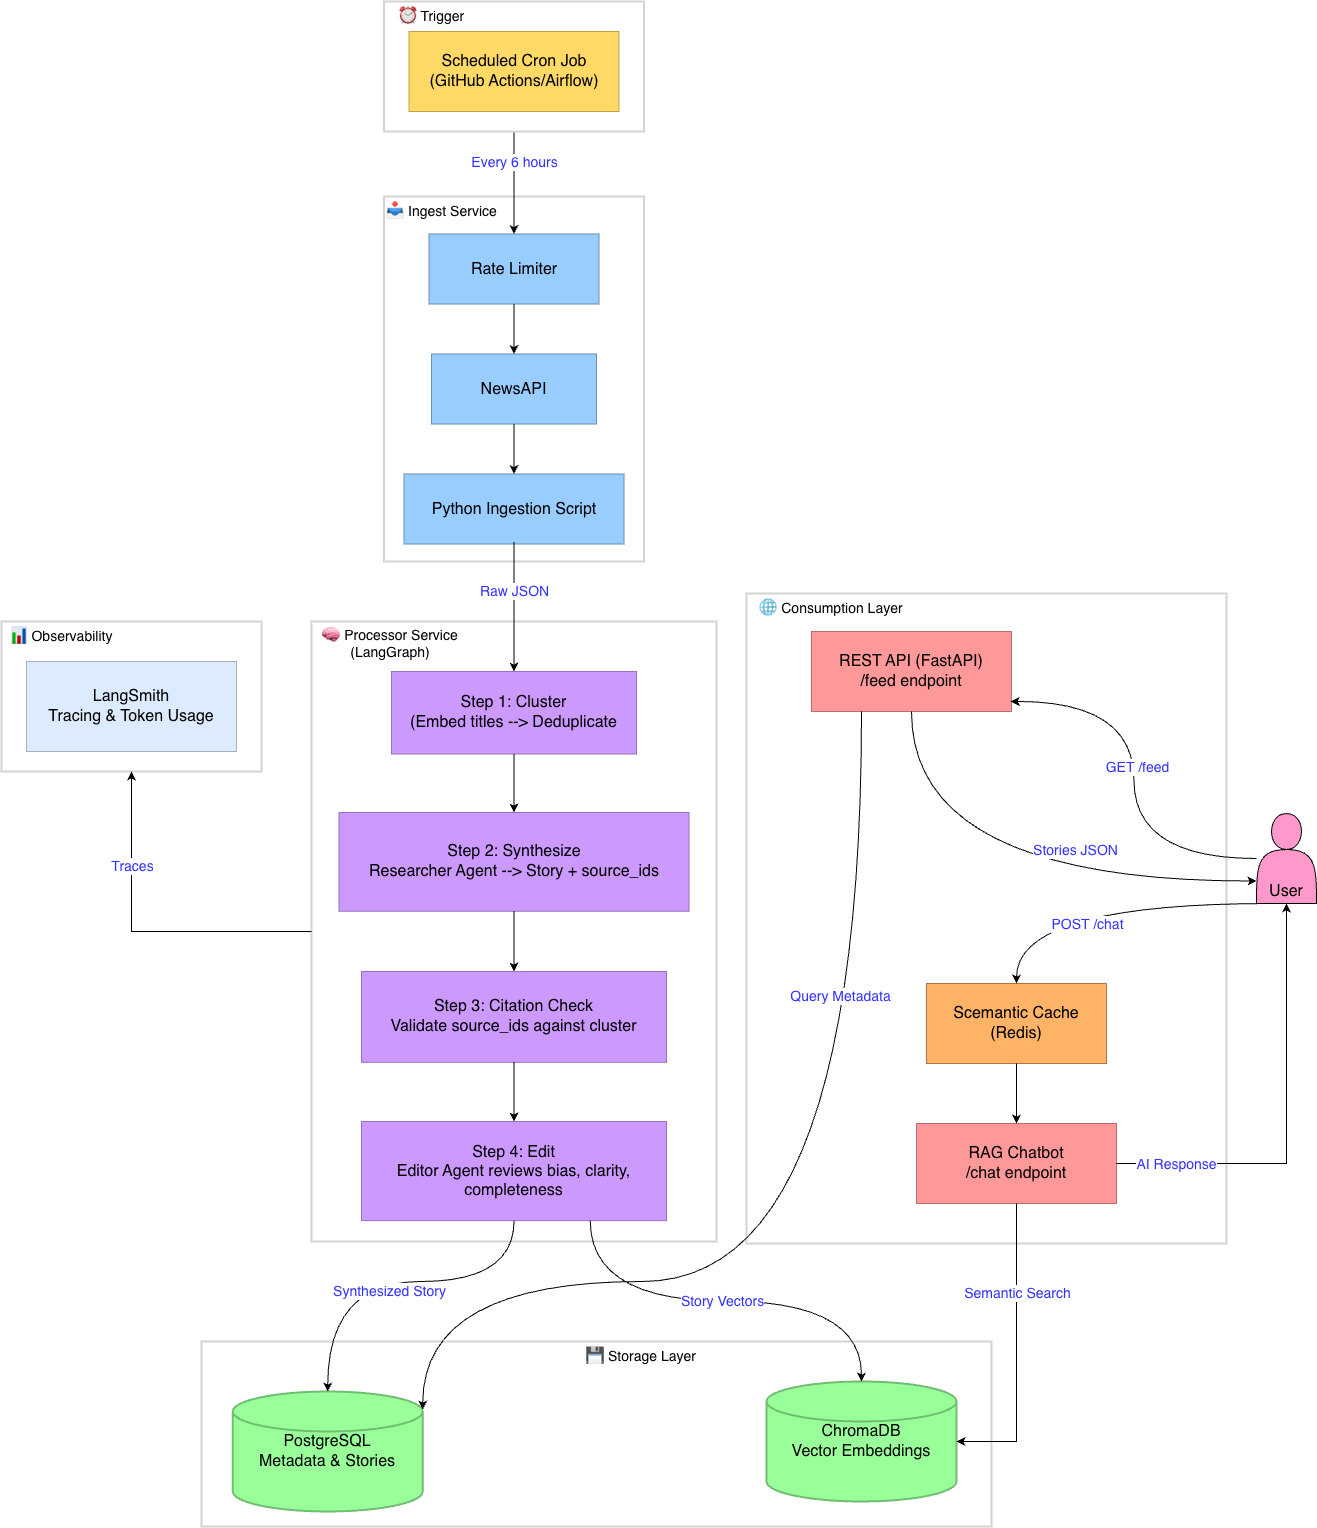
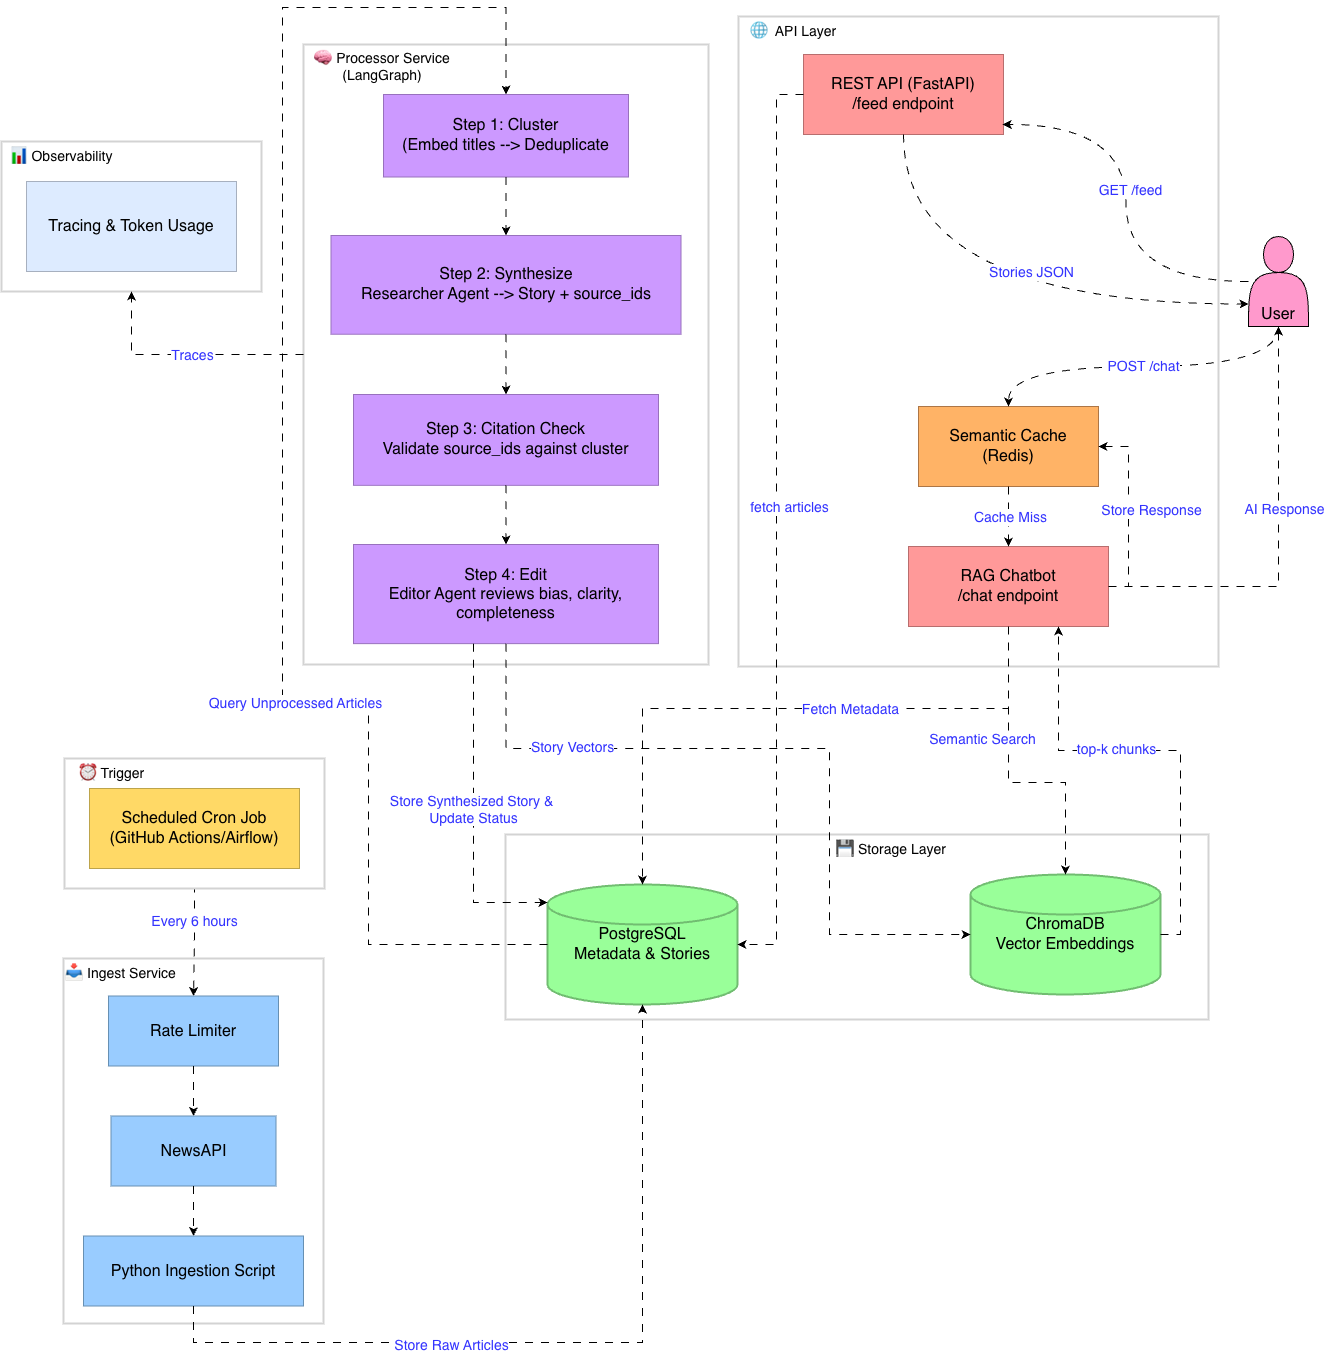
docs: Refactor system architecture documentation with detailed component descriptions and updated visual assets.

diff --git a/DESIGN.md b/DESIGN.md
@@ -33,20 +33,39 @@
 - **Observability**: Every LLM token usage and cost must be tracked.
 
 ## System Architecture
-1. **Trigger**: Scheduled Cron Job (via GitHub Actions/Airflow).
-2. **Rate Limiter**: Token-bucket limiter with exponential backoff enforces crawl budget per run.
-3. **Ingest Service**: Python script hits NewsAPI → pushes raw JSON to intermediate storage.
-4. **Processor Service** (LangGraph):
-    - Step 1 (Cluster): Embed titles to find duplicates.
-    - Step 2 (Synthesize): Researcher Agent summarizes the cluster into one "Story," tagging every fact with its `source_id`.
-    - Step 3 (Citation Check): Validates that each `source_id` maps to an article in the cluster. Rejects hallucinated citations.
-    - Step 4 (Edit): Editor Agent reviews for bias, clarity, and missing sources.
-    - Step 5 (Evaluator Loop): Iterates between Researcher and Editor until the draft is finalized or the iteration limit is reached.
-5. **Storage**: Saves "Story" to PostgreSQL (metadata) and ChromaDB (vectors).
-6. **Consumption**: User hits FastAPI → retrieves Story feed OR Chatbot queries ChromaDB (with Semantic Cache in front).
+
+The system is organized into the following interconnected macro-components:
+
+1. **Trigger Layer**:
+    - **Scheduled Cron Job**: (via GitHub Actions/Airflow) running every 6 hours to initiate the ingestion process.
+
+2. **Ingest Service**:
+    - Checks a **Rate Limiter** for safe access to external APIs.
+    - Fetches headline data from **NewsAPI**.
+    - Uses a **Python Ingestion Script** to format data and store **Raw Articles** directly into the Database.
+
+3. **Processor Service (LangGraph)**:
+    - Queries **Unprocessed Articles** from PostgreSQL.
+    - **Step 1: Cluster**: Embed titles for duplicate detection and grouping.
+    - **Step 2: Synthesize**: Researcher Agent generates a draft Story along with `source_ids`.
+    - **Step 3: Citation Check**: Validates the extracted `source_ids` strictly against the article cluster.
+    - **Step 4: Edit**: Editor Agent reviews the draft for bias, clarity, and completeness.
+    - Stores the **Synthesized Story** and updates processing status in PostgreSQL, and creates **Story Vectors** in ChromaDB.
+
+4. **API Layer**:
+    - **REST API (FastAPI)**: Exposes a `/feed` endpoint that fetches "Stories JSON" representing the synthesized news from PostgreSQL.
+    - **RAG Chatbot**: Exposes a `/chat` endpoint. Uses a **Semantic Search** against ChromaDB (top-k chunks) and fetches Metadata from PostgreSQL.
+    - **Semantic Cache (Redis)**: Sits in front of the `/chat` endpoint. Returns cached AI responses or stores new responses on a cache miss.
+
+5. **Storage Layer**:
+    - **PostgreSQL**: Primary database for Raw Articles, Metadata, and Synthesized Stories.
+    - **ChromaDB**: Vector database holding Vector Embeddings for the RAG service.
+
+6. **Observability**:
+    - Dedicated component receiving traces from the Processor Service for monitoring **Tracing & Token Usage**.
 
 <!-- Visualizing the flow. -->
-<p align="center">
+<p align="center" style="background-color: #fafafa">
   <img src="assets/AINewsFeed_SystemArchitecture.png" width=750 />
 </p>
 
